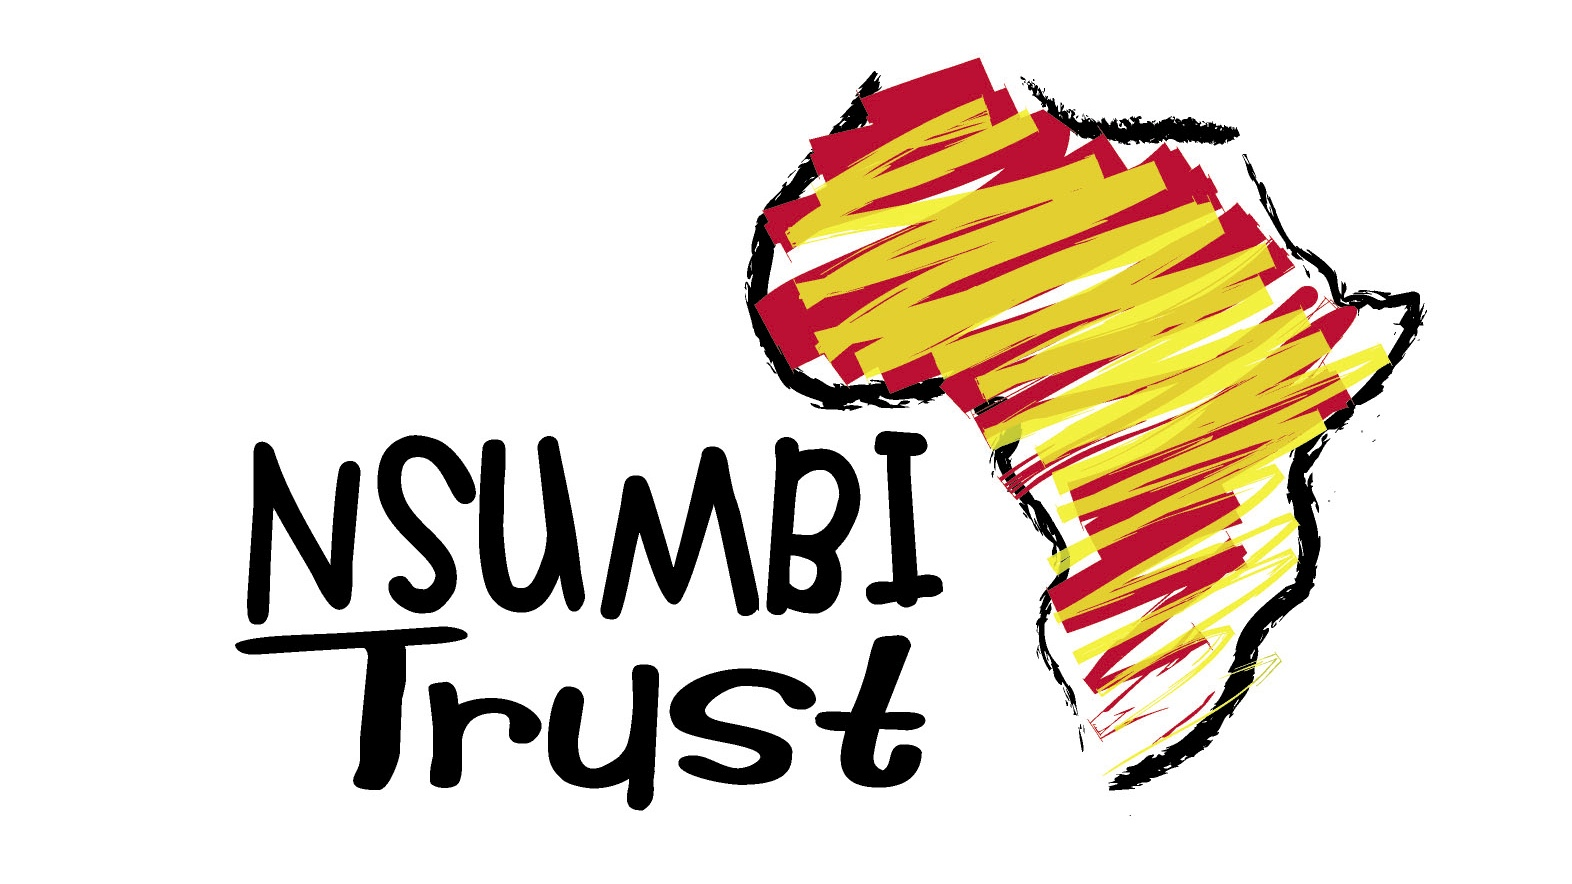
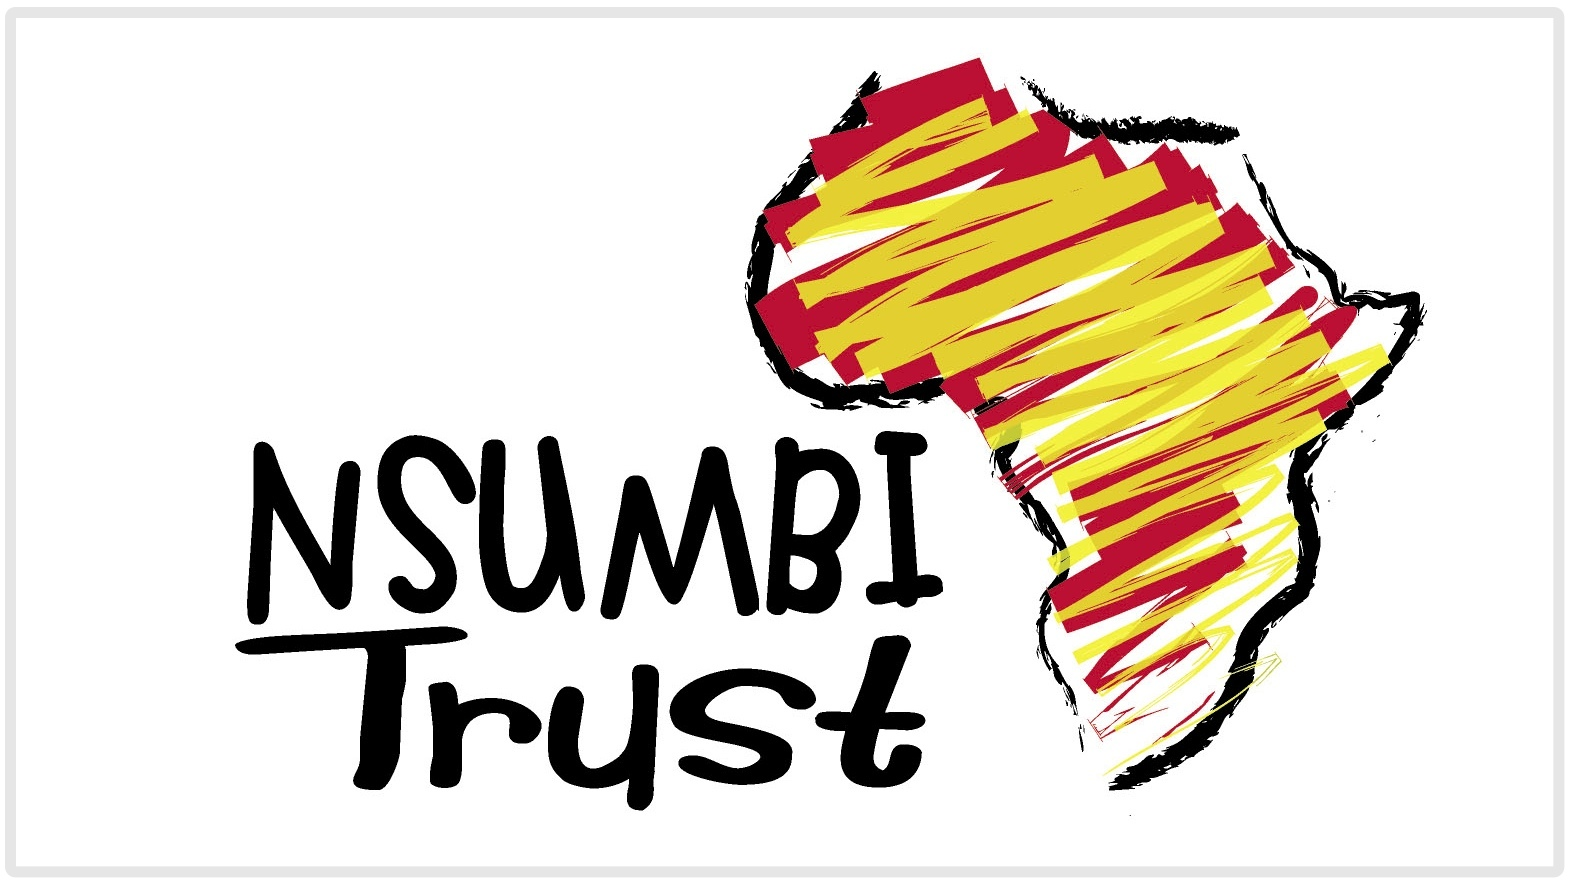
border around image desired - red text on selected post desired

Changed region(s): [[0.0, 0.0, 0.9975, 1.0]]

diff --git a/_includes/archive-posts.html b/_includes/archive-posts.html
@@ -1,5 +1,13 @@
+<style>
+.nav > .active > a {
+  color: rgb(206,55,62);
+  border: 1px solid rgb(171,174,180);
+  border-radius: 3px;
+}
+</style>
+
 <h4>Archive</h4>
-<ul class="nav nav-pills nav-stacked">
+<ul class="nav">
 	{% for post in site.posts %}
 		<li {% if post.title == page.title %} class='active' {% endif %}>
 			<a class="post-link" href="{{ post.url }}">
